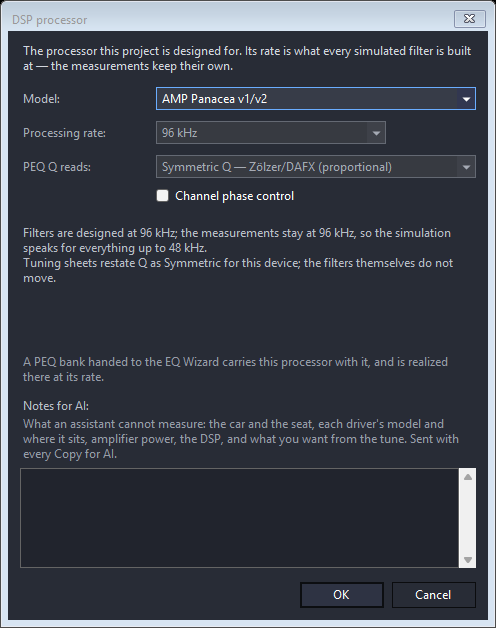
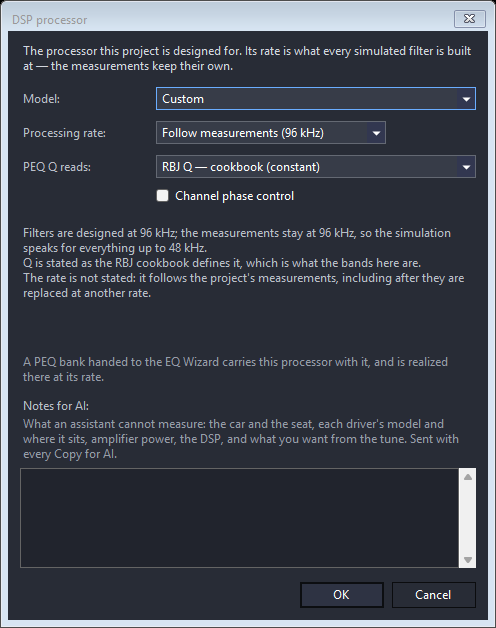
Four review findings, and the screenshot pair was the oldest of them
- The junction search moved a phase reference only where the corner it replaced
  was already engaged. A subwoofer with no low-pass dialled in yet — the case a
  search starts from — carries its reference on a corner the chain does not hold,
  so nothing could recognise it and every candidate was scored with the all-pass
  left at the old frequency. The spec now states WHICH corner the angle follows
  instead of it being inferred from the frequency.
- A hand-edited off-grid angle was snapped by the field on load while the project
  kept the original, so the two disagreed until an unrelated edit wrote the
  snapped one back. Only what the user types snaps now; a loaded angle is shown
  as the session states it.
- Undo of an AI import restored every editable setting except a phase rotation
  dialled in after it.
- The default-processor figure has been posed off the live dialog since before
  the demo session named a catalog model, so regenerating it produced the same
  preset as the figure below it. It is built from a Custom profile now, which is
  what its caption has always claimed.

Changed region(s): [[0.0302, 0.3933, 0.9375, 0.4841], [0.3327, 0.1513, 0.7863, 0.2723]]

diff --git a/tests/Resonalyze.Dsp.Tests/CrossoverJunctionTunerTests.cs b/tests/Resonalyze.Dsp.Tests/CrossoverJunctionTunerTests.cs
@@ -18,7 +18,7 @@ public sealed class CrossoverJunctionTunerTests
                 CrossoverKind.LowPass,
                 new CrossoverEdge(CrossoverFilterFamily.LinkwitzRiley, 80, 24)),
             // A subwoofer states its angle at its low-pass.
-            PhaseRotation: new PhaseRotationSpec(90, 80));
+            PhaseRotation: new PhaseRotationSpec(90, 80, ReferenceIsLowPass: true));
 
         DspChannelChain moved = CrossoverJunctionTuner.WithLowPass(
             subwoofer, new CrossoverEdge(CrossoverFilterFamily.LinkwitzRiley, 65, 24));
@@ -33,7 +33,7 @@ public sealed class CrossoverJunctionTunerTests
                 CrossoverKind.BandPass,
                 new CrossoverEdge(CrossoverFilterFamily.LinkwitzRiley, 350, 24),
                 new CrossoverEdge(CrossoverFilterFamily.LinkwitzRiley, 80, 24)),
-            PhaseRotation: new PhaseRotationSpec(90, 80));
+            PhaseRotation: new PhaseRotationSpec(90, 80, ReferenceIsLowPass: false));
 
         DspChannelChain untouched = CrossoverJunctionTuner.WithLowPass(
             midbass, new CrossoverEdge(CrossoverFilterFamily.LinkwitzRiley, 300, 24));
@@ -44,6 +44,37 @@ public sealed class CrossoverJunctionTunerTests
             midbass, new CrossoverEdge(CrossoverFilterFamily.LinkwitzRiley, 65, 24));
 
         Assert.Equal(65, highMoved.PhaseRotation.ReferenceHz);
+    }
+
+    [Fact]
+    public void ReplacingAnEdge_MovesAReferenceSittingOnAFilterTheChannelDoesNotYetUse()
+    {
+        // The case a junction search actually starts from: a subwoofer with no
+        // low-pass dialled in yet, carrying a rotation stated at the low-pass its
+        // PC-Tool page holds anyway. The chain has no low-pass to recognise the
+        // reference by, so the spec has to say which corner it follows — otherwise
+        // every candidate would be scored with the all-pass left at the old
+        // frequency, and applying the winner would build a different filter.
+        var subwoofer = new DspChannelChain(
+            Crossover: CrossoverSpec.Off,
+            PhaseRotation: new PhaseRotationSpec(90, 80, ReferenceIsLowPass: true));
+
+        DspChannelChain moved = CrossoverJunctionTuner.WithLowPass(
+            subwoofer, new CrossoverEdge(CrossoverFilterFamily.LinkwitzRiley, 65, 24));
+
+        Assert.Equal(65, moved.PhaseRotation.ReferenceHz);
+        Assert.Equal(CrossoverKind.LowPass, moved.Crossover!.Kind);
+
+        // And the mirror: a channel with no high-pass engaged whose angle is stated
+        // at the high-pass its page holds.
+        var tweeter = new DspChannelChain(
+            Crossover: CrossoverSpec.Off,
+            PhaseRotation: new PhaseRotationSpec(90, 2_000));
+
+        DspChannelChain highMoved = CrossoverJunctionTuner.WithHighPass(
+            tweeter, new CrossoverEdge(CrossoverFilterFamily.LinkwitzRiley, 3_500, 24));
+
+        Assert.Equal(3_500, highMoved.PhaseRotation.ReferenceHz);
     }
 
     // A flat driver: a unit impulse, so everything the junction measures is the

diff --git a/dsp/CrossoverJunctionTuner.cs b/dsp/CrossoverJunctionTuner.cs
@@ -666,7 +666,10 @@ public static class CrossoverJunctionTuner
                 new CrossoverSpec(CrossoverKind.BandPass, lowPass, crossover.HighPassEdge),
             _ => new CrossoverSpec(CrossoverKind.LowPass, lowPass)
         };
-        return WithMovedEdge(chain, LowPassOf(chain), lowPass) with { Crossover = replaced };
+        return WithMovedReference(chain, lowPass, lowPassMoved: true) with
+        {
+            Crossover = replaced
+        };
     }
 
     /// <summary>
@@ -683,24 +686,29 @@ public static class CrossoverJunctionTuner
                 new CrossoverSpec(CrossoverKind.BandPass, crossover.LowPassEdge, highPass),
             _ => new CrossoverSpec(CrossoverKind.HighPass, HighPassEdge: highPass)
         };
-        return WithMovedEdge(chain, HighPassOf(chain), highPass) with { Crossover = replaced };
+        return WithMovedReference(chain, highPass, lowPassMoved: false) with
+        {
+            Crossover = replaced
+        };
     }
 
     // A channel phase control states its angle AT one of the channel's crossover
     // corners, so a search that moves that corner has to move the filter the angle
     // builds — or it would judge a candidate against an all-pass the device would
-    // not place there. Which of the two corners the angle belongs to is a property
-    // of the CHANNEL (the low-pass on a subwoofer, the high-pass otherwise) and not
-    // of a chain, so it is recognised rather than looked up: the reference follows
-    // the edge it currently sits on. A chain with no rotation, or one whose
-    // reference is the other edge, comes back untouched.
-    private static DspChannelChain WithMovedEdge(
+    // not place there, and applying the winner would then produce a response the
+    // search never scored. The spec says which corner it is (see
+    // PhaseRotationSpec.ReferenceIsLowPass) rather than it being inferred from the
+    // frequency: a channel can carry a reference on a filter its kind does not
+    // engage — a subwoofer with no low-pass dialled in yet is exactly the case a
+    // junction search starts from — and such an edge is not in the chain to compare
+    // against. A chain with no rotation, or one whose reference is the other
+    // corner, comes back untouched.
+    private static DspChannelChain WithMovedReference(
         DspChannelChain chain,
-        CrossoverEdge? replacedEdge,
-        CrossoverEdge newEdge) =>
+        CrossoverEdge newEdge,
+        bool lowPassMoved) =>
         !chain.PhaseRotation.IsTransparent &&
-        replacedEdge is { } old &&
-        old.FrequencyHz == chain.PhaseRotation.ReferenceHz
+        chain.PhaseRotation.ReferenceIsLowPass == lowPassMoved
             ? chain with
             {
                 PhaseRotation = chain.PhaseRotation with { ReferenceHz = newEdge.FrequencyHz }

diff --git a/tools/Resonalyze.Screenshots/Shots.cs b/tools/Resonalyze.Screenshots/Shots.cs
@@ -404,8 +404,18 @@ internal static class Shots
 
         if (wanted("manual/dsp-processor"))
         {
-            session.CaptureModal("manual/dsp-processor",
-                () => Reflect.Field<Button>(panel, "buttonDspProcessor").PerformClick());
+            // Built directly, like the model figure below it, and for a reason the
+            // live dialog cannot serve: the manual captions this one "as a new
+            // project opens it" — Custom, following its measurements — while the
+            // session behind these figures names a catalog model. Posed off the
+            // panel, the two figures would show the same preset and the pair would
+            // illustrate nothing.
+            session.CaptureDialog(
+                DspProcessorDialog(
+                    Dsp.DspProcessorProfile.Custom(96_000, Dsp.PeqQConvention.Rbj),
+                    follows: true,
+                    measurementRateHz: 96_000),
+                "manual/dsp-processor");
         }
 
         if (wanted("manual/dsp-processor-model"))
@@ -553,7 +563,10 @@ internal static class Shots
     }
 
     private static Form DspProcessorDialog(
-        Dsp.DspProcessorProfile profile, bool follows, int measurementRateHz)
+        Dsp.DspProcessorProfile profile,
+        bool follows,
+        int measurementRateHz,
+        bool? phaseControl = null)
     {
         Type type = typeof(VirtualCrossoverPanel).Assembly
             .GetType("Resonalyze.DspProcessorDialog")
@@ -564,7 +577,7 @@ internal static class Shots
             System.Reflection.BindingFlags.NonPublic |
             System.Reflection.BindingFlags.Public,
             binder: null,
-            [profile, follows, measurementRateHz],
+            [profile, follows, measurementRateHz, phaseControl],
             culture: null)!;
     }
 

diff --git a/source/Tools/VirtualCrossover/VirtualCrossoverProjectFile.cs b/source/Tools/VirtualCrossover/VirtualCrossoverProjectFile.cs
@@ -314,7 +314,27 @@ public sealed class VirtualCrossoverChannelSettings
             InvertPolarity,
             crossover,
             peq,
-            new PhaseRotationSpec(PhaseRotationDegrees, PhaseReferenceHz(zone)));
+            PhaseRotation(zone));
+    }
+
+    /// <summary>
+    /// The channel phase control as the DSP reads it: the angle, the crossover corner
+    /// it is stated at, and WHICH of the channel's two corners that is.
+    /// </summary>
+    /// <remarks>
+    /// The last of the three is not decoration: a chain carries only the corners its
+    /// kind engages, so nothing downstream could tell a reference sitting on a
+    /// disengaged low-pass from one sitting on the high-pass beside it — and the
+    /// junction search, which moves one corner at a time, has to know which of them
+    /// the angle follows.
+    /// </remarks>
+    public PhaseRotationSpec PhaseRotation(VirtualCrossoverZone zone)
+    {
+        bool referenceIsLowPass = zone == VirtualCrossoverZone.Sub;
+        return new PhaseRotationSpec(
+            PhaseRotationDegrees,
+            (referenceIsLowPass ? LowPassEdge : HighPassEdge).FrequencyHz,
+            referenceIsLowPass);
     }
 
     /// <summary>
@@ -330,9 +350,7 @@ public sealed class VirtualCrossoverChannelSettings
     /// exactly so this stays a real number when the filter is not in use.
     /// </remarks>
     public double PhaseReferenceHz(VirtualCrossoverZone zone) =>
-        zone == VirtualCrossoverZone.Sub
-            ? LowPassEdge.FrequencyHz
-            : HighPassEdge.FrequencyHz;
+        PhaseRotation(zone).ReferenceHz;
 
     public void Validate()
     {

diff --git a/source/Tools/VirtualCrossover/VirtualCrossoverChannelControl.cs b/source/Tools/VirtualCrossover/VirtualCrossoverChannelControl.cs
@@ -838,9 +838,25 @@ public partial class VirtualCrossoverChannelControl : UserControl
         };
         numericPhase.ValueChanged += (_, _) =>
         {
-            // The control has 64 positions and no others, so a typed angle lands on
-            // the nearest one. Re-entrant by design: the assignment raises this
-            // handler again with a value that is already on the grid.
+            // The control has 64 positions and no others, so an angle the USER types
+            // lands on the nearest one. Re-entrant by design: the assignment raises
+            // this handler again with a value that is already on the grid.
+            //
+            // Only the user's, though. A value the host is loading passes through
+            // untouched, because the alternative is worse both ways: snapping it
+            // without telling the project would leave the field showing one angle
+            // while the simulation ran another until some unrelated edit wrote the
+            // snapped one back, and snapping it INTO the project would silently
+            // rewrite a session the file format deliberately accepts (the DSP builds
+            // any angle; it is the device that has 64 positions). Shown as it stands,
+            // it is the session's own number, and one press of an arrow puts it on
+            // the grid.
+            if (suppressChangeEvents)
+            {
+                UpdatePhaseReadout();
+                return;
+            }
+
             var snapped = (decimal)PhaseRotationControl.SnapToGrid((double)numericPhase.Value);
             if (snapped != numericPhase.Value)
             {

diff --git a/tests/Resonalyze.App.Tests/VirtualCrossoverChannelControlPhaseTests.cs b/tests/Resonalyze.App.Tests/VirtualCrossoverChannelControlPhaseTests.cs
@@ -153,6 +153,30 @@ public sealed class VirtualCrossoverChannelControlPhaseTests
     }
 
     [Fact]
+    public void AnAngleTheHostLoads_IsShownAsTheSessionStatedIt()
+    {
+        // The file format accepts any angle in range — the DSP builds one, it is the
+        // DEVICE that has 64 positions — so a hand-edited session must not be quietly
+        // re-dialled by being displayed. Snapping it here without telling the project
+        // would leave the field and the simulation disagreeing until some unrelated
+        // edit wrote the snapped value back.
+        using var control = new VirtualCrossoverChannelControl { PhaseControlShown = true };
+        control.ProcessorSampleRateHz = 96_000;
+        control.HighPassFrequencyInput.Value = 500;
+
+        control.RunBatchUpdate(() => control.PhaseInput.Value = 7m);
+
+        Assert.Equal(7m, control.PhaseInput.Value);
+        // And it still says what that angle builds.
+        Assert.Contains("AP2", control.PhaseInfoLabel.Text);
+
+        // One press of an arrow puts it back on the grid.
+        control.PhaseInput.Value = 7m + (decimal)PhaseRotationControl.StepDegrees;
+
+        Assert.Equal(11.25m, control.PhaseInput.Value);
+    }
+
+    [Fact]
     public void TheAngle_RaisesTheSettingsEvent_SoTheChainIsRecomputed()
     {
         using var control = new VirtualCrossoverChannelControl { PhaseControlShown = true };

diff --git a/tests/Resonalyze.App.Tests/AgentProposalApplierTests.cs b/tests/Resonalyze.App.Tests/AgentProposalApplierTests.cs
@@ -226,6 +226,27 @@ public sealed class AgentProposalApplierTests
     }
 
     [Fact]
+    public void Restore_PutsBackAPhaseRotation_NoOperationEverWrote()
+    {
+        // Undo restores the whole editable chain, not just the fields an operation
+        // can write: a rotation dialled in between the import and the undo would
+        // otherwise be the one setting that survived it.
+        (AgentSessionSnapshot session, AgentProposal proposal) = Scene();
+        VirtualCrossoverChannelSettings aRight = session.Find("A:right")!.Settings;
+        aRight.PhaseRotationDegrees = 56.25;
+        Assert.Null(AgentProposalApplier.Prepare(
+            proposal, new HashSet<string>(["op-1"]),
+            session.Fingerprint, session, out List<AgentOperationVerdict> toApply, out _));
+
+        List<AgentUndoEntry> undo = AgentProposalApplier.Apply(toApply);
+        aRight.PhaseRotationDegrees = 90;
+
+        AgentProposalApplier.Restore(undo);
+
+        Assert.Equal(56.25, aRight.PhaseRotationDegrees);
+    }
+
+    [Fact]
     public void Apply_PutsBackWhatItWrote_WhenAWriteThrows()
     {
         (AgentSessionSnapshot session, AgentProposal proposal) = Scene();

diff --git a/dsp/PhaseRotationControl.cs b/dsp/PhaseRotationControl.cs
@@ -25,7 +25,18 @@ namespace Resonalyze.Dsp;
 /// The crossover frequency the angle is measured at — the channel's own, AS
 /// CONFIGURED. Zero (no reference) makes the setting transparent.
 /// </param>
-public readonly record struct PhaseRotationSpec(double Degrees, double ReferenceHz)
+/// <param name="ReferenceIsLowPass">
+/// WHICH of the channel's two corners <see cref="ReferenceHz"/> is: its low-pass
+/// on a subwoofer channel, its high-pass on every other one. The frequency alone
+/// cannot say, and a search that moves one corner has to know whether this is the
+/// one that moves — a chain carries only the corners its kind engages, so a
+/// channel whose reference sits on a filter it is not currently using would
+/// otherwise be unreadable.
+/// </param>
+public readonly record struct PhaseRotationSpec(
+    double Degrees,
+    double ReferenceHz,
+    bool ReferenceIsLowPass = false)
 {
     /// <summary>No rotation at all.</summary>
     public static PhaseRotationSpec None { get; }

diff --git a/source/Integration/AgentBridge/AgentProposalApplier.cs b/source/Integration/AgentBridge/AgentProposalApplier.cs
@@ -178,6 +178,10 @@ internal static class AgentProposalApplier
         to.CrossoverKind = from.CrossoverKind;
         to.LowPassEdge = from.LowPassEdge;
         to.HighPassEdge = from.HighPassEdge;
+        // No operation writes it, but this is the UNDO path as well: a phase
+        // rotation dialled in after an import would otherwise survive the undo
+        // while every setting beside it went back.
+        to.PhaseRotationDegrees = from.PhaseRotationDegrees;
         to.PeqPreampDb = from.PeqPreampDb;
         to.PeqBands = new List<PeqBand>(from.PeqBands);
         to.PeqSourceName = from.PeqSourceName;
